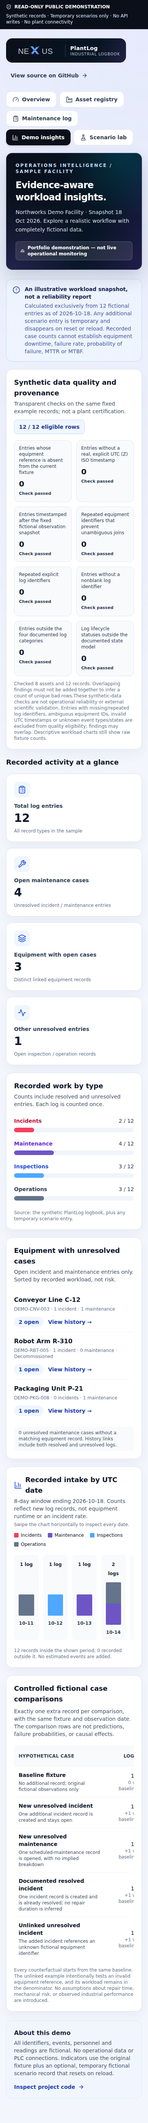
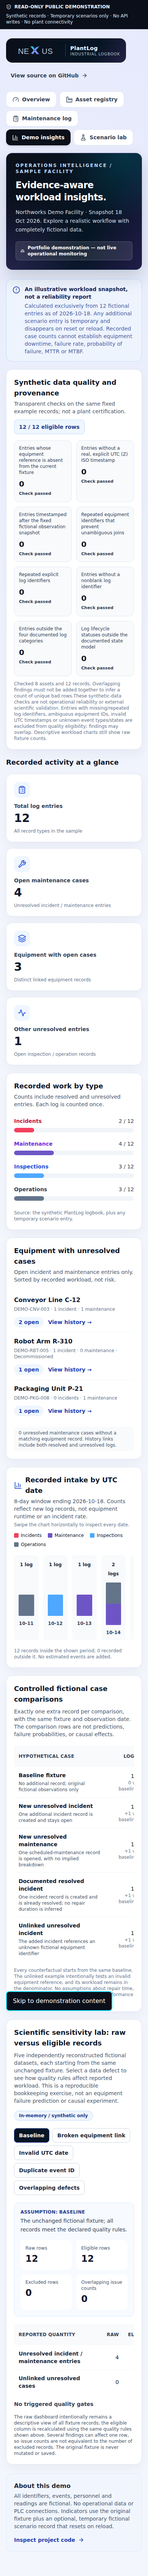
Refresh science lab visual evidence and harden capture concurrency (#44)
* docs(science): bind sensitivity lab visual claims to screenshot capture manifest

* docs(visual): capture current NEXUS eight-gate demo in Chromium

* ci(docs): serialize screenshot capture to prevent concurrent branch push conflicts

* docs(visual): capture current NEXUS eight-gate demo in Chromium

---------

Changed region(s): [[0.0308, 0.0, 0.9846, 0.9952]]

diff --git a/docs/eligibility-sensitivity-method.md b/docs/eligibility-sensitivity-method.md
@@ -86,3 +86,12 @@ exposure-time-normalized. There is no independence/representativeness claim
 for the small synthetic case universe. Claims of external validity require
 separate, legally shareable historical observations, domain expert review,
 and a different evaluation design.
+
+## Visual evidence
+
+The [full-page Chromium screenshots](screenshots-manifest.json) include the
+interactive sensitivity section at its **Baseline** selection. The capture
+routine also exercises the **Overlapping defects** selection before resetting
+the page to the baseline for a deterministic, reviewable screenshot. The
+manifest records its source commit, date and viewport rather than asserting
+that this UI was verified against live industrial data.
